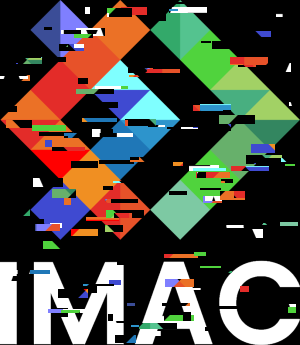
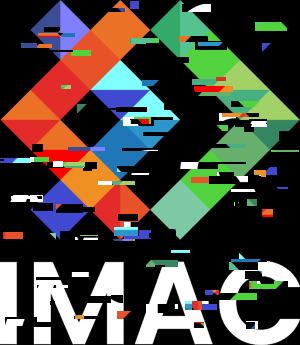
exercices du jour

diff --git a/src/main.cpp b/src/main.cpp
@@ -2,6 +2,7 @@
 #include <iostream>
 #include <algorithm>
 #include "random.hpp"
+#include <glm/gtx/matrix_transform_2d.hpp>
 
 // -----------------------⭐
 void keep_green_only(sil::Image &image) // Prend l'image par référence pour pouvoir la modifier
@@ -129,7 +130,7 @@ void lighting(sil::Image &image)
 {
     int w = image.width();
     int h = image.height();
-    float p = 3; //<1 = éclaircir >1=assombrir
+    float p = 1.5; //<1 = éclaircir >1=assombrir
     for (int x = 0; x < w; x++)
     {
         for (int y = 0; y < h; y++)
@@ -386,16 +387,72 @@ void glitch(sil::Image &image)
 }
 
 // -----------------------⭐⭐⭐
+
+// passer linear RGB en sRGB
+float rgb_to_srgb(float c)
+{
+    if (c <= 0.0031308f)
+        return 12.92f * c;
+    else
+        return 1.055f * powf(c, 1.0f / 2.4f) - 0.055f;
+}
+
+struct Lab
+{
+    float L;
+    float a;
+    float b;
+};
+struct RGB
+{
+    float r;
+    float g;
+    float b;
+};
+
+// passer de okLab en RGB linéaire
+RGB oklab_to_linear_rgb(Lab c)
+{
+    float l_ = c.L + 0.3963377774f * c.a + 0.2158037573f * c.b;
+    float m_ = c.L - 0.1055613458f * c.a - 0.0638541728f * c.b;
+    float s_ = c.L - 0.0894841775f * c.a - 1.2914855480f * c.b;
+
+    float l = l_ * l_ * l_;
+    float m = m_ * m_ * m_;
+    float s = s_ * s_ * s_;
+
+    return {
+        +4.0767416621f * l - 3.3077115913f * m + 0.2309699292f * s,
+        -1.2684380046f * l + 2.6097574011f * m - 0.3413193965f * s,
+        -0.0041960863f * l - 0.7034186147f * m + 1.7076147010f * s,
+    };
+}
+
 void color_gradient(sil::Image &image)
 {
-    glm::vec3 red = glm::vec3(1, 0, 0);
-    glm::vec3 green = glm::vec3(0, 1, 0);
+    Lab lab_red = {0.62796f, 0.22486f, 0.12585f};    // rouge sRGB
+    Lab lab_green = {0.86644f, -0.23389f, 0.17950f}; // vert sRGB
+
     for (int x{0}; x < image.width(); x++)
     {
         for (int y{0}; y < image.height(); y++)
         {
             float t = x / float(image.width() - 1);
-            glm::vec3 color = glm::mix(red, green, t);
+            // glm::vec3 color = glm::mix(red, green, t);
+
+            // Interpolation en OkLab
+            Lab lab_color;
+            lab_color.L = lab_red.L + t * (lab_green.L - lab_red.L);
+            lab_color.a = lab_red.a + t * (lab_green.a - lab_red.a);
+            lab_color.b = lab_red.b + t * (lab_green.b - lab_red.b);
+
+            // Reconvertir en RGB linéaire
+            RGB color = oklab_to_linear_rgb(lab_color);
+            // retour en sRGB
+            color.r = rgb_to_srgb(color.r);
+            color.g = rgb_to_srgb(color.g);
+            color.b = rgb_to_srgb(color.b);
+
             image.pixel(x, y).r = color.r;
             image.pixel(x, y).g = color.g;
             image.pixel(x, y).b = color.b;
@@ -516,6 +573,48 @@ void normalisation(sil::Image &image)
 }
 
 // -----------------------⭐⭐⭐⭐
+// Fonction donnée:
+glm::vec2 rotated(glm::vec2 point, glm::vec2 center_of_rotation, float angle)
+{
+    return glm::vec2{glm::rotate(glm::mat3{1.f}, angle) * glm::vec3{point - center_of_rotation, 0.f}} + center_of_rotation;
+}
+
+void vortex(sil::Image &image)
+{
+    int w = image.width();
+    int h = image.height();
+    sil::Image copy = image; // copier l'image originale
+
+    glm::vec2 center_of_rotation(w / 2, h / 2);
+
+    for (int x = 0; x < w; x++)
+    {
+        for (int y = 0; y < h; y++)
+        {
+            glm::vec2 position(x, y);
+
+            float distance = glm::distance(position, center_of_rotation); // Distance entre le pixel et le centre du vortex
+            float angle = distance * 0.1f;                                // intensité du vortex
+
+            glm::vec2 src = rotated(position, center_of_rotation, angle);
+
+            // int sx = int(src.x);
+            // int sy = int(src.y);
+
+            // empecher l'image de sortir
+            // if (sx < 0 || sx >= w || sy < 0 || sy >= h)
+            // {
+            //     continue;
+            // }
+            int sx = glm::clamp(int(src.x), 0, w - 1);
+            int sy = glm::clamp(int(src.y), 0, h - 1);
+
+            image.pixel(x, y) = copy.pixel(sx, sy);
+        }
+    }
+}
+
+// -----------------------⭐⭐⭐⭐
 void convolutions(sil::Image &image)
 {
     int w = image.width();
@@ -547,6 +646,82 @@ void convolutions(sil::Image &image)
             }
             // moyenne sur tous les pixels voisins
             image.pixel(x, y) = somme / float(count); // la somme de tt les pixels diviser par 9
+        }
+    }
+}
+
+// -----------------------⭐⭐⭐⭐⭐
+void kuwahara(sil::Image &image)
+{
+    int w = image.width();
+    int h = image.height();
+
+    // ajouter du bruit à l'image
+    // noise(image);
+
+    sil::Image copy = image;
+
+    // tableau fixe 4x4 pour les indices de chaque quadrant
+    glm::ivec2 carde[4][4] = {
+        {{-2, -2}, {-1, -2}, {-2, -1}, {-1, -1}}, // carré 1 : haut-gauche
+        {{1, -2}, {2, -2}, {1, -1}, {2, -1}},     // carré 2 : haut-droite
+        {{-2, 1}, {-1, 1}, {-2, 2}, {-1, 2}},     // carré 3 : bas-gauche
+        {{1, 1}, {2, 1}, {1, 2}, {2, 2}}          // carré 4 : bas-droite
+    };
+
+    float std_valeurs[4];
+    glm::vec3 moyennes[4]; // pour stocker la moyenne de chaque quadrant
+
+    for (int x = 0; x < w; x++)
+    {
+        for (int y = 0; y < h; y++)
+        {
+            glm::vec3 best_avg(0); // stoque la somme des couleurs RGB
+            int count = 0;
+
+            // parcourir les 4 quadrants
+            for (int q = 0; q < 4; q++)
+            {
+                glm::vec3 somme(0);
+                glm::vec3 sum_sq(0);
+                int count = 0;
+
+                // parcourir les 4 pixels du quadrant
+                for (int k = 0; k < 4; k++)
+                {
+                    int nx = x + carde[q][k].x;
+                    int ny = y + carde[q][k].y;
+
+                    // vérifier qu'on reste dans l'image
+                    if (nx >= 0 && nx < w && ny >= 0 && ny < h)
+                    {
+                        glm::vec3 c = copy.pixel(nx, ny);
+                        somme += c;
+                        sum_sq += c * c; // pour calculer la variance
+                        count++;
+                    }
+                }
+
+                // si on a au moins un pixel dans le quadrant
+                if (count > 0)
+                {
+                    glm::vec3 moyenne = somme / float(count); // moyenne
+                    glm::vec3 var = sum_sq / float(count) - moyenne * moyenne;
+                    glm::vec3 std_dev = glm::sqrt(var); // calcul standart deviation (dit dans la video)
+
+                    float std_val = std_dev.r + std_dev.g + std_dev.b; // une seule valeur
+                    std_valeurs[q] = std_val;                          // stocker les valeur de standart deviation
+                    moyennes[q] = moyenne;                             // stocker les couleurs moyennes
+                }
+            }
+
+            // trouver la plus petite valeur de standart deviation et recupérer son index
+            auto it = std::min_element(std_valeurs, std_valeurs + 4);
+
+            int best_q = it - std_valeurs;
+
+            // appliquer la couleur moyenne du quadrant le plus homogène
+            image.pixel(x, y) = moyennes[best_q]; // utiliser l'index de standart deviation le plus bas pour retrouver la moyenne qui lui correspond
         }
     }
 }
@@ -620,11 +795,11 @@ int main()
     //     split(image);
     //     image.save("output/split.png");
     // }
-    // {
-    //     sil::Image image{"images/photo_faible_contraste.jpg"};
-    //     lighting(image);
-    //     image.save("output/lighting.png");
-    // }
+    {
+        sil::Image image{"images/photo_faible_contraste.jpg"};
+        lighting(image);
+        image.save("output/lighting.png");
+    }
     // {
     //     sil::Image image{500 /*width*/, 500 /*height*/};
     //     draw_circle(image);
@@ -644,44 +819,54 @@ int main()
     //     rosace(image);
     //     image.save("output/rosace.png");
     // }
-    {
-        sil::Image image{"images/logo.png"};
-        mosaique(image);
-        image.save("output/mosaique.png");
-    }
-    {
-        sil::Image image{"images/logo.png"};
-        mosaique_mirror(image);
-        image.save("output/mosaique_mirror.png");
-    }
-    {
-        sil::Image image{"images/logo.png"};
-        glitch(image);
-        image.save("output/glitch.png");
-    }
+    // {
+    //     sil::Image image{"images/logo.png"};
+    //     mosaique(image);
+    //     image.save("output/mosaique.png");
+    // }
+    // {
+    //     sil::Image image{"images/logo.png"};
+    //     mosaique_mirror(image);
+    //     image.save("output/mosaique_mirror.png");
+    // }
+    // {
+    //     sil::Image image{"images/logo.png"};
+    //     glitch(image);
+    //     image.save("output/glitch.png");
+    // }
     {
         sil::Image image{300 /*width*/, 200 /*height*/};
         color_gradient(image);
         image.save("output/color_gradient.png");
     }
+    // {
+    //     sil::Image image{"images/logo.png"};
+    //     pixel_sorting(image);
+    //     image.save("output/pixel_sorting.png");
+    // }
+    // {
+    //     sil::Image image{"images/photo_faible_contraste.jpg"};
+    //     tramage(image);
+    //     image.save("output/tramage.jpg");
+    // }
+    // {
+    //     sil::Image image{"images/photo_faible_contraste.jpg"};
+    //     normalisation(image);
+    //     image.save("output/normalisation.jpg");
+    // }
+    // {
+    //     sil::Image image{"images/logo.png"};
+    //     convolutions(image);
+    //     image.save("output/convolutions.png");
+    // }
     {
         sil::Image image{"images/logo.png"};
-        pixel_sorting(image);
-        image.save("output/pixel_sorting.png");
+        vortex(image);
+        image.save("output/vortex.png");
     }
     {
-        sil::Image image{"images/photo_faible_contraste.jpg"};
-        tramage(image);
-        image.save("output/tramage.jpg");
-    }
-    {
-        sil::Image image{"images/photo_faible_contraste.jpg"};
-        normalisation(image);
-        image.save("output/normalisation.jpg");
-    }
-    {
-        sil::Image image{"images/logo.png"};
-        convolutions(image);
-        image.save("output/convolutions.png");
+        sil::Image image{"images/photo.jpg"};
+        kuwahara(image);
+        image.save("output/kuwahara.jpg");
     }
 }
